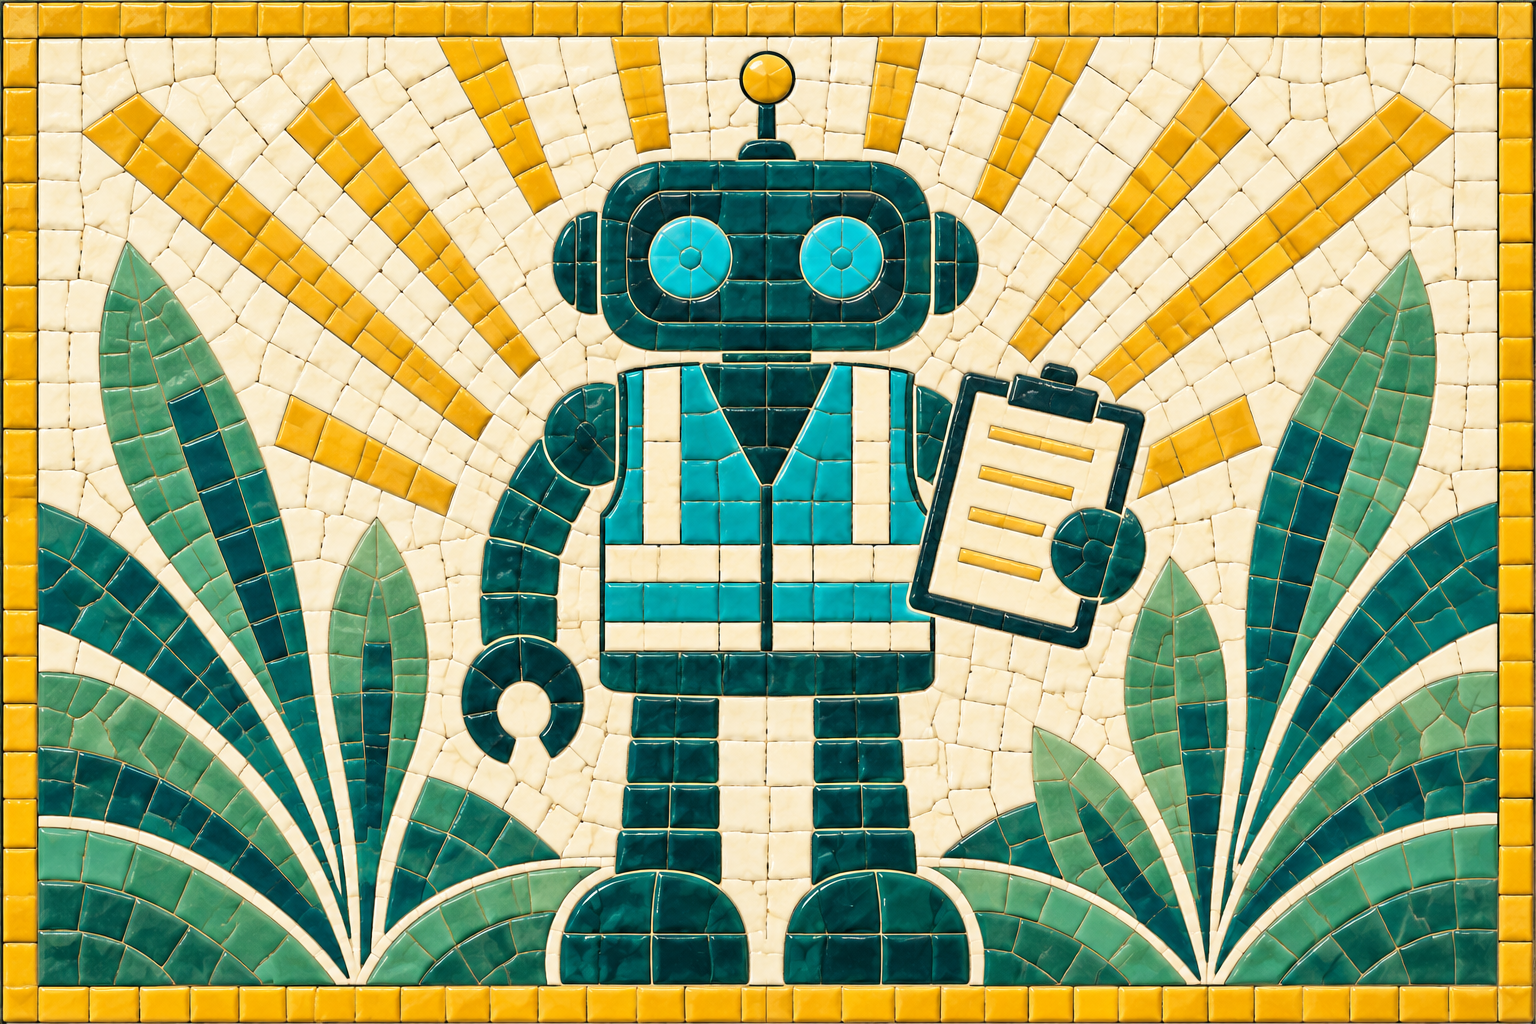
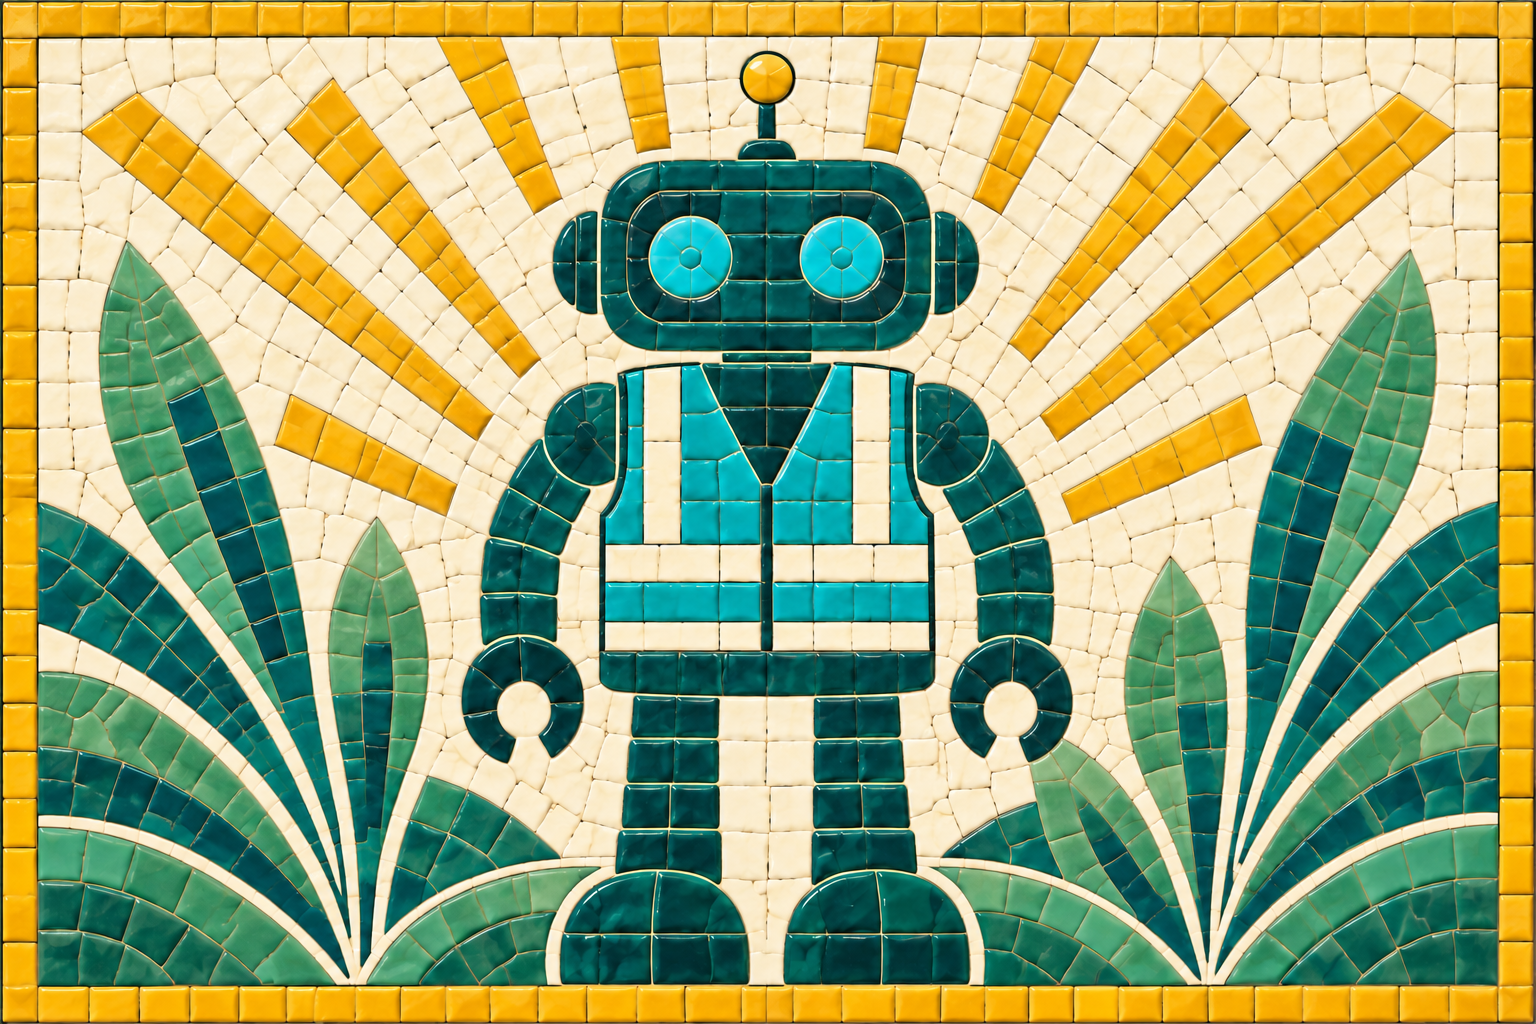
Apply requested queue and robot perk artwork revisions

diff --git a/assets/source/perks/mosaic-suite-batch2/revisions-v2/review.html b/assets/source/perks/mosaic-suite-batch2/revisions-v2/review.html
@@ -1,0 +1,1 @@
+<!doctype html><meta charset="utf-8"><title>Perk revisions</title><style>*{box-sizing:border-box}body{margin:0;padding:20px;background:#fff4d6;color:#164e4d;font:22px Georgia}main{display:grid;grid-template-columns:repeat(3,384px);gap:16px}h2{font:22px Georgia;height:30px;margin:0 0 12px}img{display:block;width:384px;height:256px}</style><main><section><h2>Friendly Queues · smileys</h2><img src="friendly-queues-v2.png"></section><section><h2>Robot Workers · no clipboard</h2><img src="robot-workers-v2.png"></section><section><h2>Cola Fiends · new concept</h2><img src="cola-fiends-v2.png"></section></main>

diff --git a/assets/source/perks/mosaic-suite-v1/PROMPTS.md b/assets/source/perks/mosaic-suite-v1/PROMPTS.md
@@ -86,3 +86,31 @@ A stack of three empty pint glasses: two at the base, one balanced on top. The s
 A friendly simple robot, front-on and standing. Head a rounded rectangle with two round turquoise eye tiles; antenna a small one with a golden tip; wearing the suite's teal steward safety vest with cream reflective bands; holding a cream clipboard with blank golden lines in one hand. Golden sun rays; sage leaves low. No mouth or face expression beyond the eyes, no text on the clipboard, no plus symbol, no medical bag. One robot only.
 
 
+
+## Batch 2 requested revisions — 3 October 2026
+
+User feedback conveyed by producer: Beer Festival, Bring Your Own Bottle and Alcoholics approved. Friendly Queues smileys and Robot Workers empty hands requested; these revised masters are integrated. The new Cola Fiends concept below is a preview only, pending selection; canonical runtime Cola Fiends remains unchanged. Full revision record: ../mosaic-suite-batch2/revisions-v2/PROMPTS.md.
+
+# Batch 2 revisions — built-in image-generation skill
+
+Friendly Queues and Robot Workers are requested edits. Cola Fiends is a new replacement concept pending user selection. All other artwork and effect text are unchanged.
+
+## friendly-queues
+
+Use case: precise-object-edit. Image1 is the EDIT TARGET. Change ONLY the two turquoise blue circular dots inside the speech bubbles: turn each into a clearly legible happy smiley face with two tiny dark teal ceramic eye tiles and a curved dark teal smiling mouth, contained within the same existing turquoise circle. Keep precisely the same two speech bubbles, posts, sagging gold rope, foliage, sun rays, gold border, handmade ceramic mosaic tile material and all existing colours/composition. No other faces, people, text or objects. No red. Opaque landscape PNG1536x1024.
+
+## robot-workers
+
+Use case: precise-object-edit. Image1 is the EDIT TARGET. Remove ONLY the clipboard from the robot's right-side hand and the accompanying clipboard contents. Fill its former area with matching cream mosaic background, keeping the sun rays and foliage continuous. Give that now-empty robot arm a relaxed downward bend ending in the same simple curved claw hand as the other arm. Keep the robot's body, head, eyes, antenna, teal steward vest with cream reflective bands, legs, mosaic material, colours, sun rays, gold tile border, all remaining composition unchanged. No text, no mouth, no extra props, no red. Opaque landscape PNG1536x1024.
+
+## cola-fiends
+
+Use case: stylized-concept. Asset: standalone text-free artwork for a small festival-tycoon perk card.
+Image 1 is the APPROVED WATER CARD style/composition anchor; image 2 is the approved LOGO style reference. Generate ONE artwork panel ONLY, not a complete card or sheet.
+Shared suite: straight-on flat handmade glazed ceramic mosaic with chunky, subtly irregular tesserae and warm ivory grout, matching the anchor's rich dark teal, turquoise, sage, golden yellow, warm cream. Clear bold simple subject silhouettes, mildly rustic cheerful British festival character. A thin single row golden tile border sits INSIDE image edges, evenly inset 3%; background is warm cream mosaic, subtle golden sun/ray accents and restrained sage/teal corner shapes. Consistent material/rendering with anchor, not vector clipart and not photoreal objects.
+Landscape aspect 3:2, deliver PNG 1536x1024; complete scene within canvas, generous subject safety margin about 10%; subject large enough to read at 216x145 and still distinct as a 46px thumbnail. Avoid tiny detail/clutter. All four panel edges visible. Opaque, no external backdrop, tabletop or perspective tilt.
+No text, letters, numerals, watermark, rarity, price, combo hints, branding, red-cross emblem, star-of-life or emergency-service insignia. Text will be separate native UI. No additional perks.
+Palette discipline: deep teal, turquoise, sage, golden yellow and warm cream inside a golden tile border. NO RED anywhere, no orange-red. Amber only for beer in the gold family. Cola dark drink is deep teal-brown.
+Subject: NEW Cola Fiends concept, replacing the bubble-tea cup subject entirely. A single comically wide-eyed teal festival guest bust at the centre, hunched protectively over a generic cream takeaway cola cup with a broad solid teal band, FLAT lid and bent golden drinking straw. Both simple teal hands clasp this precious drink; guest eagerly sucks on its straw, eyes wide and slightly wired in a playful 'needs their cola fix' expression. Two used empty matching paper cups, one slightly crumpled, sit at lower left, indicating a persistent cola habit. A small cutaway/open edge of the main cup reveals DARK teal-brown cola with just a few tiny cream fizz tiles at its surface. Warm golden sun accents upper right, restrained sage and teal leaf corners. The joke is compulsive cola consumption / 'coke fiend', not bubble tea. Keep bold large simple silhouettes readable small, handmade chunky ceramic tesserae with cream grout. NO domed transparent lid, NO bubble-tea pearls, NO floating balls or bubble halo, NO bottles, NO real brands, logos or wave-stripe motif. NO drug paraphernalia or powder, no lettering/numbers, no red, no amber drink. One character only. Opaque landscape 3:2 PNG1536x1024.
+
+

diff --git a/assets/source/perks/mosaic-suite-batch2/revisions-v2/PROMPTS.md b/assets/source/perks/mosaic-suite-batch2/revisions-v2/PROMPTS.md
@@ -1,0 +1,22 @@
+# Batch 2 revisions — built-in image-generation skill
+
+Friendly Queues and Robot Workers are requested edits. Cola Fiends is a new replacement concept pending user selection. All other artwork and effect text are unchanged.
+
+## friendly-queues
+
+Use case: precise-object-edit. Image1 is the EDIT TARGET. Change ONLY the two turquoise blue circular dots inside the speech bubbles: turn each into a clearly legible happy smiley face with two tiny dark teal ceramic eye tiles and a curved dark teal smiling mouth, contained within the same existing turquoise circle. Keep precisely the same two speech bubbles, posts, sagging gold rope, foliage, sun rays, gold border, handmade ceramic mosaic tile material and all existing colours/composition. No other faces, people, text or objects. No red. Opaque landscape PNG1536x1024.
+
+## robot-workers
+
+Use case: precise-object-edit. Image1 is the EDIT TARGET. Remove ONLY the clipboard from the robot's right-side hand and the accompanying clipboard contents. Fill its former area with matching cream mosaic background, keeping the sun rays and foliage continuous. Give that now-empty robot arm a relaxed downward bend ending in the same simple curved claw hand as the other arm. Keep the robot's body, head, eyes, antenna, teal steward vest with cream reflective bands, legs, mosaic material, colours, sun rays, gold tile border, all remaining composition unchanged. No text, no mouth, no extra props, no red. Opaque landscape PNG1536x1024.
+
+## cola-fiends
+
+Use case: stylized-concept. Asset: standalone text-free artwork for a small festival-tycoon perk card.
+Image 1 is the APPROVED WATER CARD style/composition anchor; image 2 is the approved LOGO style reference. Generate ONE artwork panel ONLY, not a complete card or sheet.
+Shared suite: straight-on flat handmade glazed ceramic mosaic with chunky, subtly irregular tesserae and warm ivory grout, matching the anchor's rich dark teal, turquoise, sage, golden yellow, warm cream. Clear bold simple subject silhouettes, mildly rustic cheerful British festival character. A thin single row golden tile border sits INSIDE image edges, evenly inset 3%; background is warm cream mosaic, subtle golden sun/ray accents and restrained sage/teal corner shapes. Consistent material/rendering with anchor, not vector clipart and not photoreal objects.
+Landscape aspect 3:2, deliver PNG 1536x1024; complete scene within canvas, generous subject safety margin about 10%; subject large enough to read at 216x145 and still distinct as a 46px thumbnail. Avoid tiny detail/clutter. All four panel edges visible. Opaque, no external backdrop, tabletop or perspective tilt.
+No text, letters, numerals, watermark, rarity, price, combo hints, branding, red-cross emblem, star-of-life or emergency-service insignia. Text will be separate native UI. No additional perks.
+Palette discipline: deep teal, turquoise, sage, golden yellow and warm cream inside a golden tile border. NO RED anywhere, no orange-red. Amber only for beer in the gold family. Cola dark drink is deep teal-brown.
+Subject: NEW Cola Fiends concept, replacing the bubble-tea cup subject entirely. A single comically wide-eyed teal festival guest bust at the centre, hunched protectively over a generic cream takeaway cola cup with a broad solid teal band, FLAT lid and bent golden drinking straw. Both simple teal hands clasp this precious drink; guest eagerly sucks on its straw, eyes wide and slightly wired in a playful 'needs their cola fix' expression. Two used empty matching paper cups, one slightly crumpled, sit at lower left, indicating a persistent cola habit. A small cutaway/open edge of the main cup reveals DARK teal-brown cola with just a few tiny cream fizz tiles at its surface. Warm golden sun accents upper right, restrained sage and teal leaf corners. The joke is compulsive cola consumption / 'coke fiend', not bubble tea. Keep bold large simple silhouettes readable small, handmade chunky ceramic tesserae with cream grout. NO domed transparent lid, NO bubble-tea pearls, NO floating balls or bubble halo, NO bottles, NO real brands, logos or wave-stripe motif. NO drug paraphernalia or powder, no lettering/numbers, no red, no amber drink. One character only. Opaque landscape 3:2 PNG1536x1024.
+

diff --git a/briefs/results/perk-mosaic-batch2.md b/briefs/results/perk-mosaic-batch2.md
@@ -1,5 +1,15 @@
 # Perk mosaic batch 2 integration
 
+## Requested revision 2 — 3 October 2026
+
+Updated only Friendly Queues and Robot Workers runtime PNGs: smileys replace the dots; the robot clipboard is removed. Corresponding active manifest subjects/hashes and both SVG fallbacks now match. Other twelve PNGs/card entries, including canonical Cola Fiends, were checked unchanged. User approval of Beer Festival, Bring Your Own Bottle and Alcoholics is recorded in the manifest; the edited two are recorded as requested revisions, not a new user aesthetic endorsement.
+
[1 lines of base64/hex data omitted]
+
+Full source/review package refreshed, including [revision prompts, originals and integration scope](../../assets/source/perks/mosaic-suite-batch2/revisions-v2/INTEGRATION.md). Two old SVGs are archived alongside original PNGs; only their canonical repo placeholders were edited. The new Cola Fiends image is source preview only, pending user selection, and was not copied into game assets or its active card entry.
+
+Fourteen focused artwork/catalogue/perk tests pass again; native Godot loads all fourteen PNG and SVG resources. All eighteen regenerated review previews retain exact dimensions. [Revision evidence](../../reports/evidence/perk-mosaic-batch2/revision2/). No gameplay/layout or EXE change. The original integration record below remains historical.
+
 3 October 2026. User-requested asset integration authorized by the producer. Added existing-catalogue artwork for Beer Festival, Friendly Queues, Bring Your Own Bottle, Cola Fiends, Alcoholics and Robot Workers. No new images were generated during integration. No separate user aesthetic-approval claim is made.
 
 ## Files and provenance

diff --git a/assets/source/DESIGN_INDEX.md b/assets/source/DESIGN_INDEX.md
@@ -8,7 +8,9 @@ The user's [working agreement](../../docs/WORKING-AGREEMENTS.md) records that ap
 
 ## Current UI and presentation designs
 
-Perk mosaic batch 2 adds six existing-catalogue artworks under user-requested integration and producer authorization on 3 October 2026: [full source/reviews](perks/mosaic-suite-batch2/) and [integration result](../../briefs/results/perk-mosaic-batch2.md). The active suite-v1 manifest now indexes fourteen cards while preserving the original eight. Separate user aesthetic approval for this new batch is not claimed; no gameplay or layout changes accompany the assets.
+Perk mosaic batch 2 adds six existing-catalogue artworks under user-requested integration and producer authorization on 3 October 2026: [full source/reviews](perks/mosaic-suite-batch2/) and [integration result](../../briefs/results/perk-mosaic-batch2.md). The active suite-v1 manifest now indexes fourteen cards while preserving the original eight. Initial integration did not claim separate user aesthetic approval; subsequent feedback is recorded below. No gameplay or layout changes accompany the assets.
+
+Batch 2 revision: user approved Beer Festival, Bring Your Own Bottle and Alcoholics; requested Friendly Queues smileys and clipboard-free Robot Workers are integrated. The new Cola Fiends candidate remains source/review only pending selection, with canonical runtime unchanged. [Revision scope](perks/mosaic-suite-batch2/revisions-v2/INTEGRATION.md).
 
 | Design / repo copy | Current status | Implementation / supersession |
 | --- | --- | --- |

diff --git a/assets/source/perks/mosaic-suite-batch2/revisions-v2/INTEGRATION.md b/assets/source/perks/mosaic-suite-batch2/revisions-v2/INTEGRATION.md
@@ -1,0 +1,7 @@
+# Requested revisions integrated
+
+3 October 2026. User feedback relayed by the producer approves Beer Festival, Bring Your Own Bottle and Alcoholics. Friendly Queues and Robot Workers receive the requested changes: happy smileys in the speech bubbles; clipboard removed and hands empty. Their revised canonical PNGs are copied to the game and their two active manifest subject/hash entries updated. Other twelve runtime masters and entries remain unchanged.
+
+The full supplied package/reviews and original raster masters are preserved. Repo-only vector changes update `placeholders/friendly-queues.svg` and `placeholders/robot-workers.svg` to match; copies of the supplied old SVGs are archived beside the old PNGs under `originals/`. The art-workspace originals are untouched. Older package QA describing the original clipboard and approval status remains historical evidence, superseded for these edits by this note and the active manifest revision record.
+
+`cola-fiends-v2.png` is a preview candidate awaiting user selection. It is preserved only in this source/review directory; canonical `artwork/cola-fiends.png`, active manifest entry and game runtime remain the prior version. No approval for the candidate is recorded. No gameplay, native layout or executable change.
